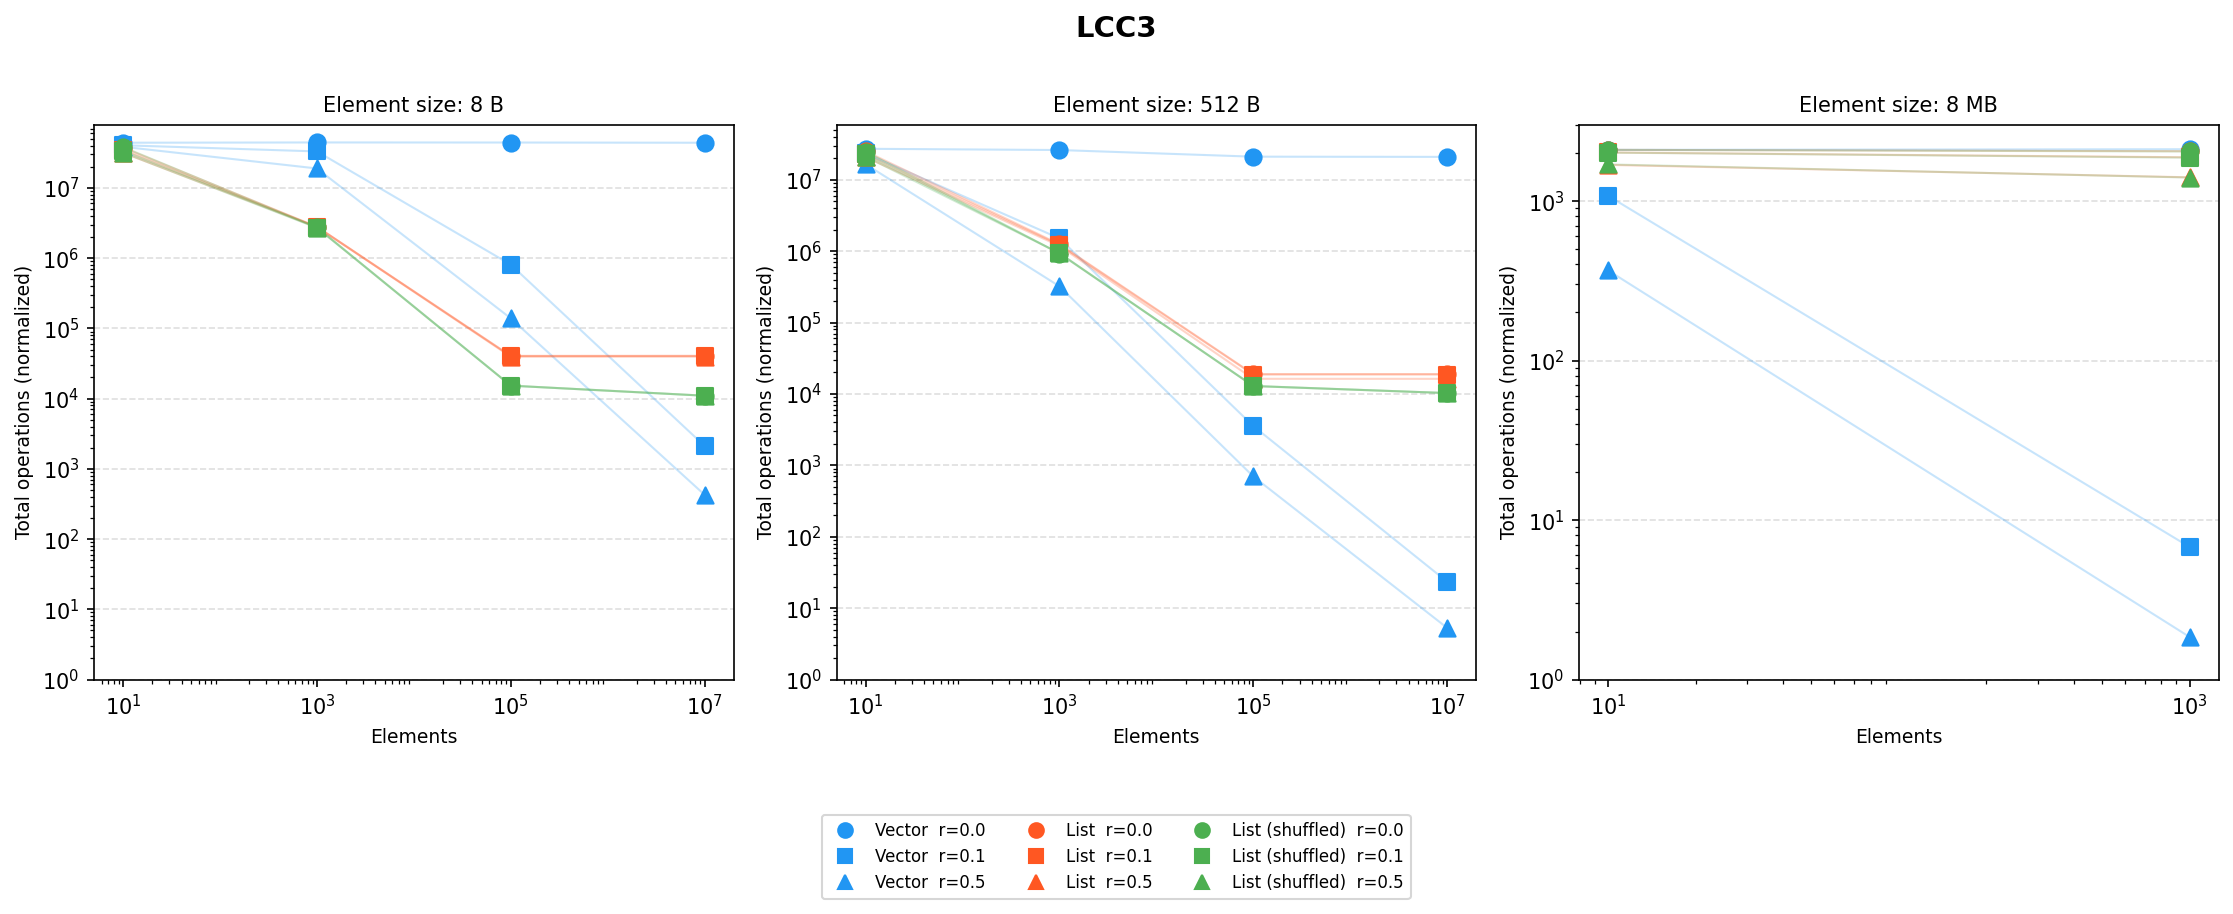
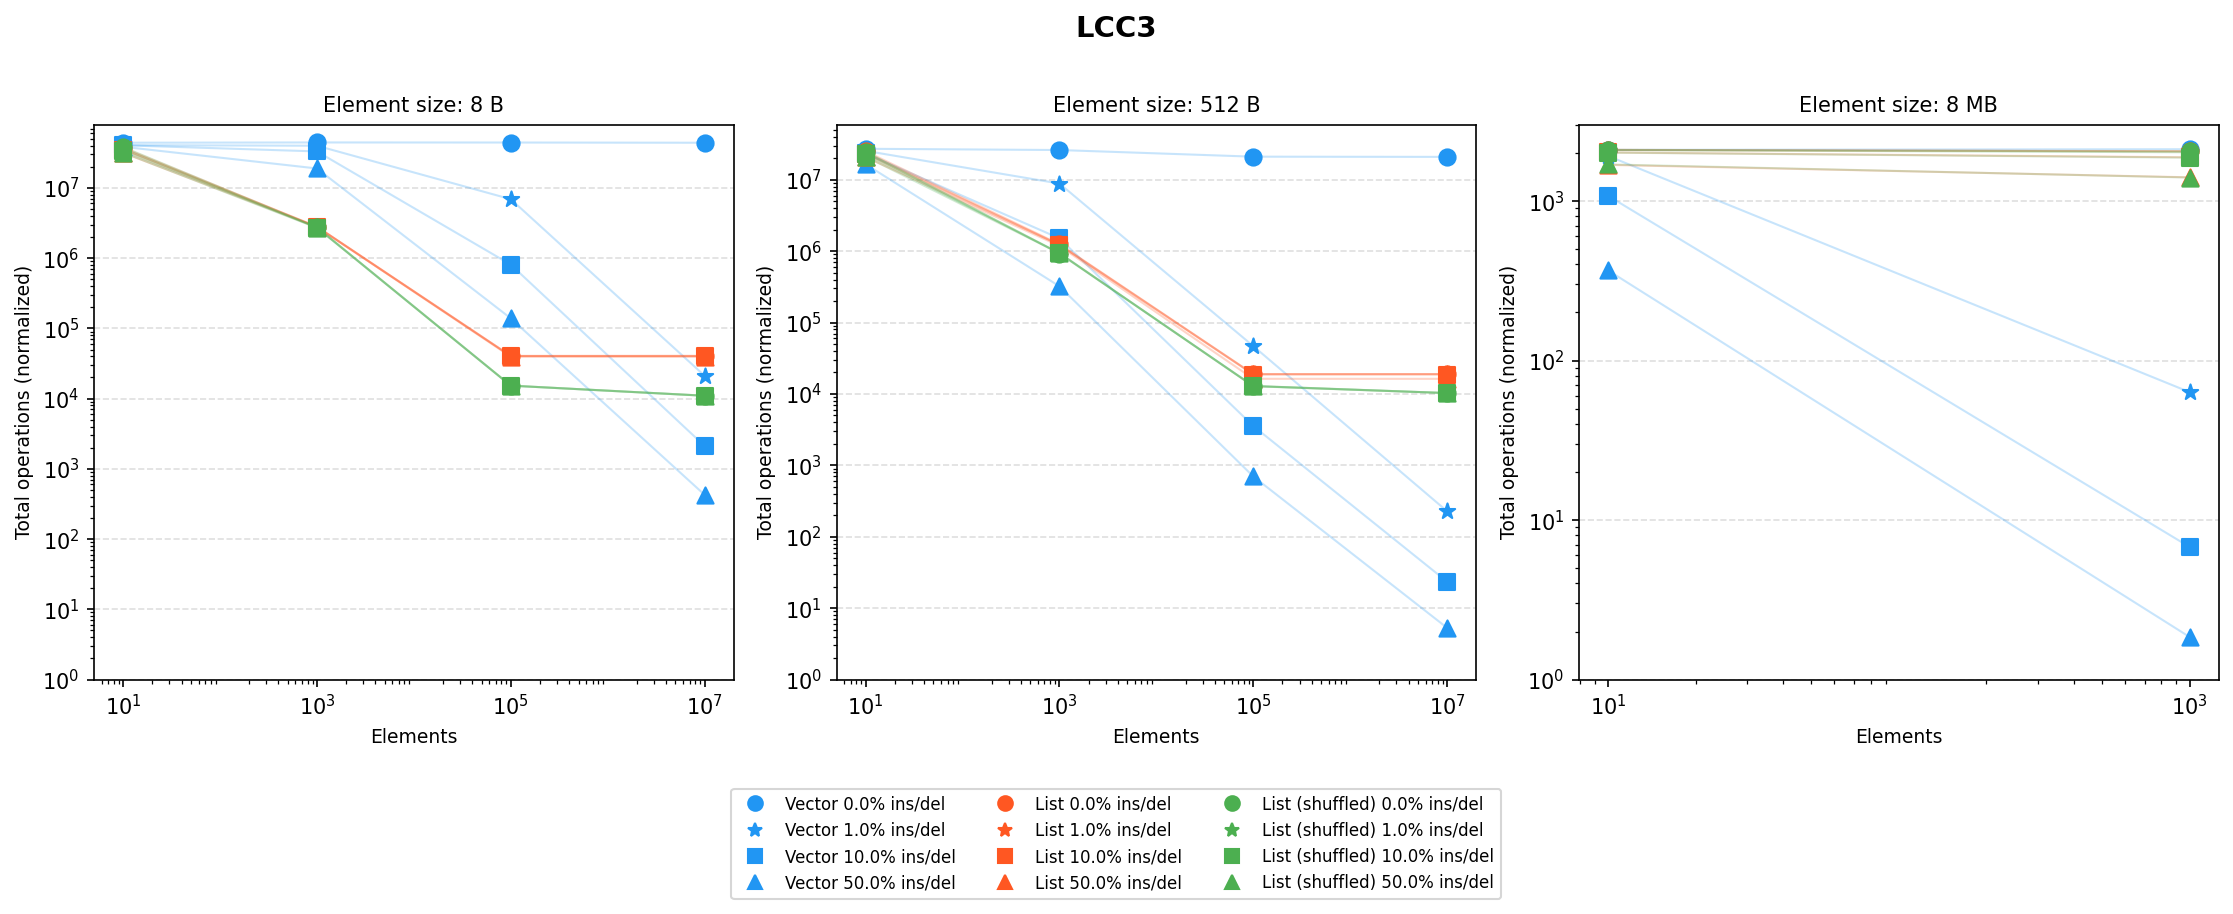
sheet09

diff --git a/solutions/exercise9/plot.py b/solutions/exercise9/plot.py
@@ -27,9 +27,9 @@ sizes            = [8, 512, 8_000_000]
 size_labels      = {8: "8 B", 512: "512 B", 8_000_000: "8 MB"}
 size_tags        = {8: "8", 512: "512", 8_000_000: "8M"}
 
-fractions        = [0.0, 0.1, 0.5]
-fraction_labels  = {0.0: "r=0.0  (read-only)", 0.1: "r=0.1  (10% writes)", 0.5: "r=0.5  (50% writes)"}
-fraction_markers = {0.0: "o", 0.1: "s", 0.5: "^"}
+fractions        = [0.0, 0.01, 0.1, 0.5]
+fraction_labels  = {0.0: "0% ins/del",0.01: "1% ins/del", 0.1: "10% ins/del", 0.5: "50% ins/del"}
+fraction_markers = {0.0: "o", 0.01: "*", 0.1: "s", 0.5: "^"}
 
 colors  = {"Vector": "#2196F3", "List": "#FF5722", "List (shuffled)": "#4CAF50"}
 markers = {"Vector": "o",       "List": "s",       "List (shuffled)": "^"}
@@ -73,7 +73,7 @@ if LCC3:
     title = "LCC3"
 
 # ── FILE 1: 3×3 (rows=sizes, cols=fractions) ──────────────────────────────────
-fig, axes = plt.subplots(3, 3, figsize=(15, 12), sharey=False)
+fig, axes = plt.subplots(3, 4, figsize=(15, 12), sharey=False)
 fig.suptitle(f"{title}", fontsize=14, fontweight="bold")
 
 for row, size in enumerate(sizes):
@@ -117,7 +117,7 @@ for label, _ in datasets:
     for frac in fractions:
         handles.append(Line2D([0], [0], marker=fraction_markers[frac], color=colors[label],
                                linestyle="None", markersize=7,
-                               label=f"{label}  r={frac}"))
+                               label=f"{label} {frac*100}% ins/del"))
 fig.legend(handles=handles, loc="lower center", ncol=len(datasets),
            fontsize=8, bbox_to_anchor=(0.5, -0.18), frameon=True)
 fig.tight_layout()
@@ -126,12 +126,35 @@ plt.close(fig)
 print("Saved bench_1x3.png")
 
 
-# ── FILES 3–5: one per element size, 1×3 subplots (one per fraction) ──────────
+# ── FILES 3–5: one per element size, 1×3 subplots (one per container) ──────────
 for size in sizes:
-    fig, axes = plt.subplots(1, 3, figsize=(15, 5), sharey=False)
+    fig, axes = plt.subplots(1, len(datasets), figsize=(15, 5), sharey=False)
     fig.suptitle(f"{title} — Element size: {size_labels[size]}",
                  fontsize=14, fontweight="bold", y=1.01)
 
+    for ax, (label, df) in zip(axes, datasets):
+        for frac in fractions:
+            sub = df[(df["size"] == size) & (df["fraction"] == frac)].sort_values("elements")
+            ax.scatter(sub["elements"], sub["total_ops"],
+                       color=colors[label], marker=fraction_markers[frac],
+                       s=60, zorder=3, label=fraction_labels[frac])
+            ax.plot(sub["elements"], sub["total_ops"],
+                    color=colors[label], alpha=0.25, linewidth=1)
+        style_ax(ax, size)
+        ax.set_title(label, fontsize=10)
+        ax.legend(fontsize=8)
+
+    fig.tight_layout()
+    fig.savefig(f"./plots/{title.lower()}_bench_size_container_{size_tags[size]}.png",
+                dpi=150, bbox_inches="tight")
+    plt.close(fig)
+    print(f"Saved bench_size_container_{size_tags[size]}.png")
+
+    # ── FILES 3–5: one per element size, 1×3 subplots (one per fraction) ──────────
+for size in sizes:
+    fig, axes = plt.subplots(1, 4, figsize=(15, 5), sharey=False)
+    fig.suptitle(f"{title} — Element size: {size_labels[size]}",
+    fontsize=14, fontweight="bold", y=1.01)
     for ax, frac in zip(axes, fractions):
         for label, df in datasets:
             sub = df[(df["size"] == size) & (df["fraction"] == frac)].sort_values("elements")
@@ -139,8 +162,9 @@ for size in sizes:
         style_ax(ax, size)
         ax.set_title(fraction_labels[frac], fontsize=10)
         ax.legend(fontsize=8)
-
     fig.tight_layout()
-    fig.savefig(f"./plots/{title.lower()}_bench_size_{size_tags[size]}.png", dpi=150, bbox_inches="tight")
+    fig.savefig(f"./plots/{title.lower()}_bench_size_fraction_{size_tags[size]}.png", dpi=150, bbox_inches="tight")
     plt.close(fig)
-    print(f"Saved bench_size_{size_tags[size]}.png")
+    print(f"Saved bench_size_fraction_{size_tags[size]}.png")
+
+
